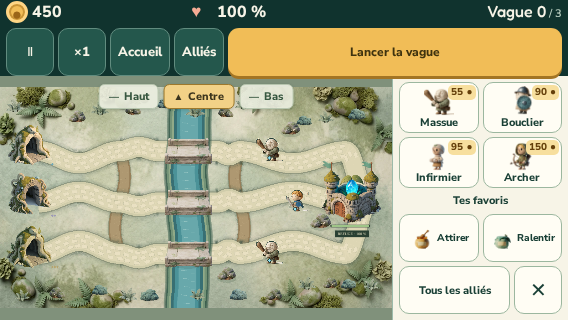
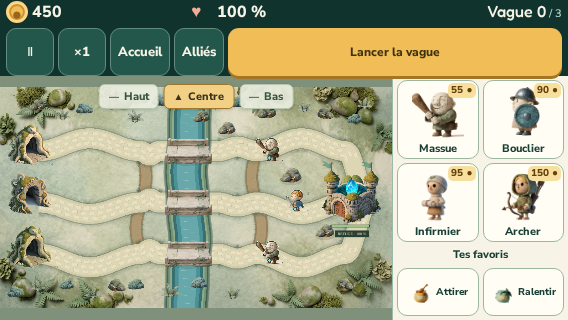
Fix curved-lane honey hit testing and short-screen dock bounds

diff --git a/tests/child-mobile-035.test.ts b/tests/child-mobile-035.test.ts
@@ -92,6 +92,33 @@ test('les centres courbes sont reconnus sur toutes les cartes sans consommer le 
     assert.equal(feastLaneAtPoint(point, level), null);
 });
 
+test('aucun milieu entre deux voies courbes ne peut consommer le pot', () => {
+  const levels = [
+    levelForWave(1),
+    levelForWave(5),
+    levelForWave(9),
+    ...([0, 1, 2] as const).map(missionLevel),
+  ];
+  for (const level of levels)
+    for (let x = 108; x <= 972; x += 4)
+      for (let lane = 0; lane < 2; lane++) {
+        const a = lanePoint(x, lane, level),
+          b = lanePoint(x, lane + 1, level);
+        assert.equal(
+          feastLaneAtPoint({ x, y: (a.y + b.y) / 2 }, level),
+          null,
+          `${level.id} x${x} lanes${lane}/${lane + 1}`,
+        );
+      }
+  const session = new Session(35);
+  session.game.startWave();
+  session.selectFeast('sticky');
+  const before = JSON.stringify(session.game);
+  assert.equal(activateBoard(session, { x: 240, y: 254 }), false);
+  assert.equal(session.game.feastUsed, false);
+  assert.equal(JSON.stringify(session.game), before);
+});
+
 for (const flavor of ['lure', 'sticky'] as const)
   test(`le toucher ${flavor} envoie exactement la commande existante`, () => {
     const s = new Session(35),

diff --git a/src/ui/boardActions.ts b/src/ui/boardActions.ts
@@ -8,16 +8,15 @@ import { lanePoint } from '../routes.ts';
 export function feastLaneAtPoint(point: Point, level: Level): number | null {
   if (!Number.isFinite(point.x) || !Number.isFinite(point.y) || point.x < 108 || point.x > 972)
     return null;
-  let picked: number | null = null,
-    distance = 48;
-  for (let lane = 0; lane < LANES.length; lane++) {
-    const next = Math.abs(point.y - lanePoint(point.x, lane, level).y);
-    if (next <= distance) {
-      distance = next;
-      picked = lane;
-    }
-  }
-  return picked;
+  const targets = LANES.map((_, lane) => ({
+    lane,
+    distance: Math.abs(point.y - lanePoint(point.x, lane, level).y),
+  })).sort((a, b) => a.distance - b.distance);
+  // The warm road is 56 world units wide. Do not extend its touch area into
+  // grass, or guess a lane where two nearby roads are equally plausible.
+  return targets[0].distance <= 28 && targets[1].distance - targets[0].distance >= 8
+    ? targets[0].lane
+    : null;
 }
 
 /** The UI submits an intent; Game retains authority over spending and active lanes. */

diff --git a/index.html b/index.html
@@ -167,7 +167,7 @@
     <dialog id="departure-dialog" aria-labelledby="departure-title">
       <h2 id="departure-title">Retrouver cette aventure classique</h2>
       <p>
-        Douze vagues, un cristal et un nouveau camp de 300 pièces. Tes choix de alliés restent
+        Douze vagues, un cristal et un nouveau camp de 300 pièces. Tes choix d’alliés restent
         libres.
       </p>
       <p id="departure-preview-code" class="departure-value"></p>

diff --git a/src/style.css b/src/style.css
@@ -3881,3 +3881,15 @@ dialog > small {
     font-size: 20px;
   }
 }
+
+/* Short landscapes keep the 48px HUD catalogue action and pot-toggle cancel,
+   freeing the duplicate footer so four allies and both pots stay reachable. */
+@media (max-width: 1100px) and (max-height: 350px) and (orientation: landscape) {
+  .battle-dock {
+    grid-template-rows: minmax(100px, 1fr) 18px 48px;
+    padding: 4px;
+  }
+  .dock-actions {
+    display: none;
+  }
+}

diff --git a/docs/BILAN-0.31.md b/docs/BILAN-0.31.md
@@ -36,9 +36,9 @@ fournissent les portraits et pots. Aucun achat, publicité ou génération payan
 
 ## Vérifications
 
-410 tests natifs, types, build et budgets ; mêmes états Game/RNG après commandes
+411 tests natifs, types, build et budgets ; mêmes états Game/RNG après commandes
 identiques, sélections non sérialisées, formats existants conservés. La recette
-du dock vérifie quatre tailles/marges, cibles de 48px, aucune intersection
+du dock vérifie six tailles/marges, cibles de 48px, aucune intersection
 avec la carte, aucun défilement du dock, vrais recrutements, deux miels au toucher,
 refus, pause, annulation, favoris personnalisés conservés et alternative clavier.
 
@@ -56,6 +56,16 @@ physique S24. FPS/RAM, appels, verrouillage et confort réel restent à mesurer.
 Rapports : `reports/child-mobile-0.31.json`, `reports/audit-0.31.json`,
 `reports/mobile-0.31.0.json`, `reports/interruptions-0.31.0.json`,
 `reports/offline-0.31.0.json` ; captures dans `docs/captures-0.31/`.
+
+## Revue indépendante
+
+Aucun point critique ; deux points importants corrigés avec régressions RED→GREEN.
+Les milieux de voies courbes ne consomment plus de miel (2 604 positions testées).
+Sur les paysages courts avec barres système, le dock conserve quatre cartes et
+deux pots ; « Alliés » dans le HUD ouvre le catalogue, et toucher à nouveau le
+pot ou utiliser Échap annule la sélection. Les cibles visibles restent de 48px.
+Les cas 568×320 et 480×320 avec marges système sont maintenant couverts.
+La coquille « de alliés » est corrigée dans le texte de préparation.
 
 ## Livraison et reste du plan
 

diff --git a/docs/superpowers/specs/2026-11-08-child-mobile-design.md b/docs/superpowers/specs/2026-11-08-child-mobile-design.md
@@ -13,6 +13,10 @@ un dock latéral permanent en paysage compact, quatre alliés (grille 2×2), deu
 miels et accès au catalogue complet. Celui-ci remplace temporairement le dock,
 dans la même colonne, sans recouvrir la carte ni mettre le jeu en pause.
 
+En paysage de hauteur ≤350px, le pied du dock est retiré pour préserver les
+cibles : le bouton « Alliés » du HUD ouvre le catalogue ; toucher de nouveau le
+pot ou Échap annule la sélection. Cette adaptation couvre aussi les marges système.
+
 Les quatre alliés suivent l'ordre des huit favoris actifs, filtrés par les
 vrais déverrouillages. Si moins de quatre sont disponibles, compléter dans
 l'ordre du catalogue. Ne pas masquer un raccourci parce que l'or est insuffisant :
@@ -52,4 +56,5 @@ Conserver les identifiants DOM et les commandes existants pour clavier/tests.
 - Mêmes commandes => mêmes états Game/RNG ; anciennes sauvegardes1–7 lisibles.
 - Build, suite native et navigateur, audit et reprises ; APK familial signé
   avec le certificat debug précédent. Les essais physiques ne sont pas déduits
-  du navigateur. Pas de publication Play ; version web non republiée implicitement.
+  du navigateur. Pas de publication Play. Livraison web distincte du build vérifié selon le mandat
+  de publication existant ; audience publique conservée.

diff --git a/docs/PLAN-ACTUEL.md b/docs/PLAN-ACTUEL.md
@@ -90,7 +90,7 @@ exacte ; ne pas réutiliser « aucune collecte » pour une version publicitaire.
 ## Preuves actuelles et limites
 
 Code/APK 0.31.0 ; site et dossier Play 0.30.1 historiques. Suite locale 0.31 :
-410 tests natifs verts. La [CI GitHub 42494670333](https://github.com/zyclope0/snakeattak/actions/runs/42494670333)
+411 tests natifs verts. La [CI GitHub 42494670333](https://github.com/zyclope0/snakeattak/actions/runs/42494670333)
 reste une preuve du code 0.30.2 `a57b05a` (400 tests), distincte de cette recette.
 Audit strict actuel 13/13 ; cela ne couvre ni tout le lot 7, ni compréhension sans
 lecture, ni FPS Android physique. Le rapprochement d'audit reste historique ;
